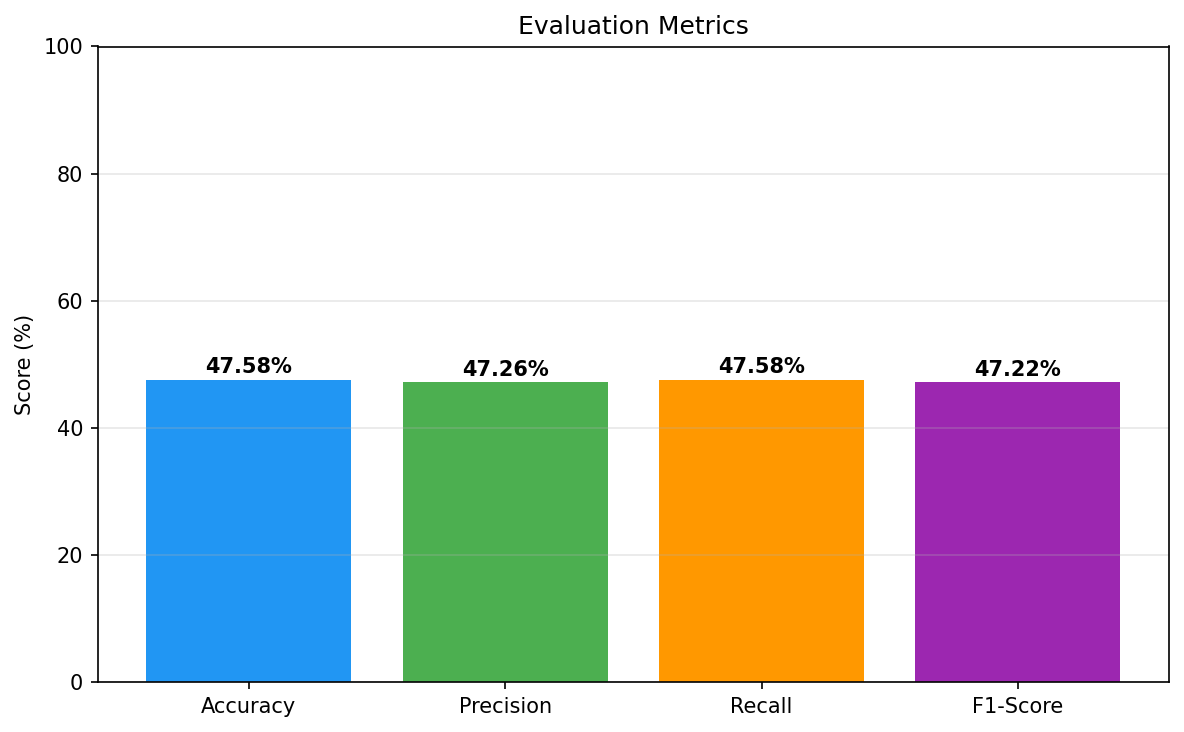
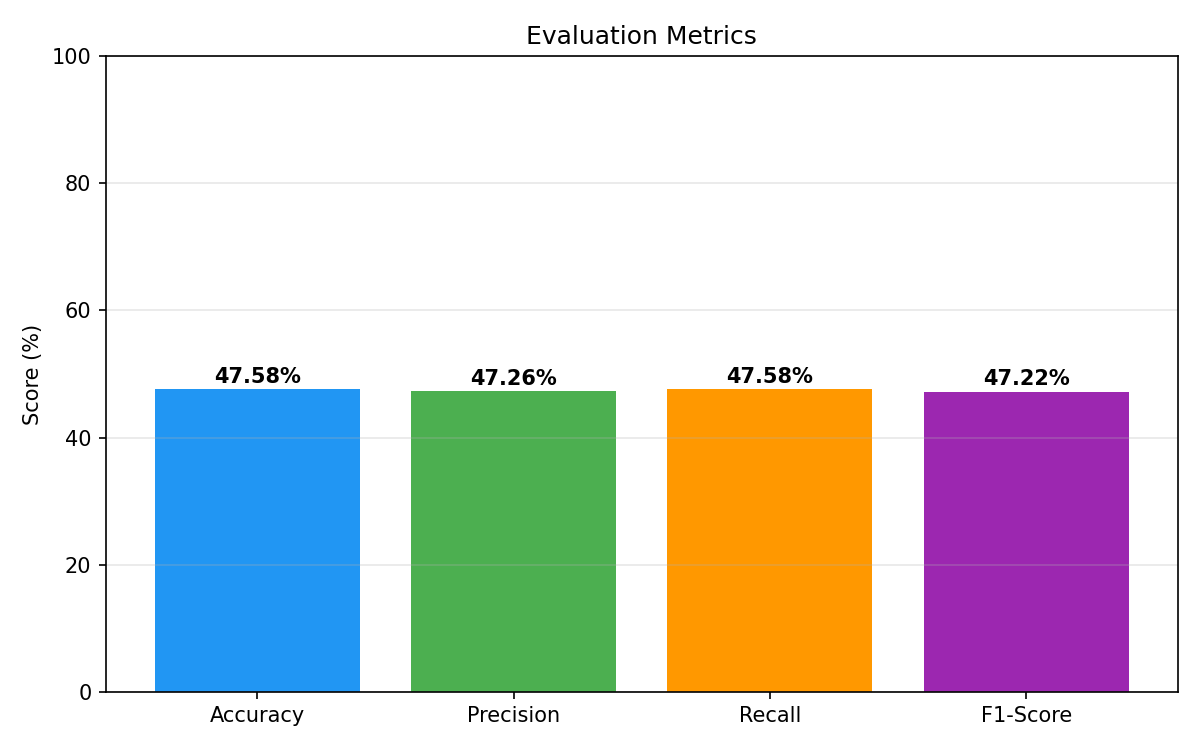
Add resume matching project with PySpark

diff --git a/src/main.py b/src/main.py
@@ -1,4 +1,3 @@
-
 import time
 import numpy as np
 import pandas as pd
@@ -11,22 +10,17 @@ from sklearn.metrics.pairwise import cosine_similarity
 from sklearn.preprocessing import normalize
 from sklearn.metrics import precision_score, recall_score, f1_score
 
-# ── Spark Session ──────────────────────────────────────────────
 spark = SparkSession.builder \
     .appName("ResumeMatching") \
     .master("local[*]") \
     .getOrCreate()
 spark.sparkContext.setLogLevel("ERROR")
 
-# ── Load & Clean Data ──────────────────────────────────────────
 df = pd.read_csv("data/Resume.csv")
 sdf = spark.createDataFrame(df[["ID", "Resume_str", "Category"]])
 sdf_clean = sdf.withColumn("text",
     trim(regexp_replace(lower(col("Resume_str")), "[^a-z\\s]", "")))
 
-print(f"Total records: {sdf_clean.count()}")
-
-# ── Pipeline ───────────────────────────────────────────────────
 def run_pipeline(num_partitions):
     sdf_part = sdf_clean.repartition(num_partitions)
     pipeline = Pipeline(stages=[
@@ -43,16 +37,10 @@ def run_pipeline(num_partitions):
     print(f"Partitions: {num_partitions} | Time: {elapsed}s")
     return elapsed, result
 
-# ── Speed-up Measurement ───────────────────────────────────────
 times = {}
 for p in [1, 2, 4, 8]:
     times[p], _ = run_pipeline(p)
 
-print("\nSpeed-up Results:")
-for p in [2, 4, 8]:
-    print(f"  {p} partitions → {round(times[1]/times[p], 2)}x")
-
-# ── Evaluation ─────────────────────────────────────────────────
 _, result = run_pipeline(8)
 result_pd = result.select("Category", "features").toPandas()
 
@@ -64,7 +52,6 @@ def sparse_to_array(v):
 
 X = normalize(np.array([sparse_to_array(r) for r in result_pd["features"]]))
 y = result_pd["Category"].values
-
 sim_matrix = cosine_similarity(X)
 y_true, y_pred = [], []
 
@@ -74,14 +61,9 @@ for i in range(len(y)):
     y_pred.append(y[np.argmax(sims)])
     y_true.append(y[i])
 
-accuracy  = sum(a == b for a, b in zip(y_true, y_pred)) / len(y_true)
-precision = precision_score(y_true, y_pred, average="weighted", zero_division=0)
-recall    = recall_score(y_true, y_pred, average="weighted", zero_division=0)
-f1        = f1_score(y_true, y_pred, average="weighted", zero_division=0)
-
-print(f"\nAccuracy:  {accuracy*100:.2f}%")
-print(f"Precision: {precision*100:.2f}%")
-print(f"Recall:    {recall*100:.2f}%")
-print(f"F1-Score:  {f1*100:.2f}%")
-
+accuracy = sum(a == b for a, b in zip(y_true, y_pred)) / len(y_true)
+print(f"Accuracy:  {accuracy*100:.2f}%")
+print(f"Precision: {precision_score(y_true, y_pred, average='weighted', zero_division=0)*100:.2f}%")
+print(f"Recall:    {recall_score(y_true, y_pred, average='weighted', zero_division=0)*100:.2f}%")
+print(f"F1-Score:  {f1_score(y_true, y_pred, average='weighted', zero_division=0)*100:.2f}%")
 spark.stop()

diff --git a/README.md b/README.md
@@ -1,0 +1,31 @@
+# AI-Powered Resume Matching with Big Data Processing
+
+A distributed resume matching system using Apache PySpark and TF-IDF.
+
+## Dataset
+- **Source:** [Resume Dataset - Kaggle](https://www.kaggle.com/datasets/snehaanbhawal/resume-dataset)
+- **Size:** 2,484 resumes across 24 job categories
+
+## Results
+
+### Speed-up
+| Partitions | Time (s) | Speed-up |
+|------------|----------|----------|
+| 1          | 15.30    | 1.00x    |
+| 2          | 6.30     | 2.43x    |
+| 4          | 6.30     | 2.43x    |
+| 8          | 6.43     | 2.38x    |
+
+### Metrics
+| Metric    | Score  |
+|-----------|--------|
+| Accuracy  | 47.58% |
+| Precision | 47.26% |
+| Recall    | 47.58% |
+| F1-Score  | 47.22% |
+
+## How to Run
+```bash
+pip install pyspark scikit-learn pandas matplotlib numpy
+python src/main.py
+```
